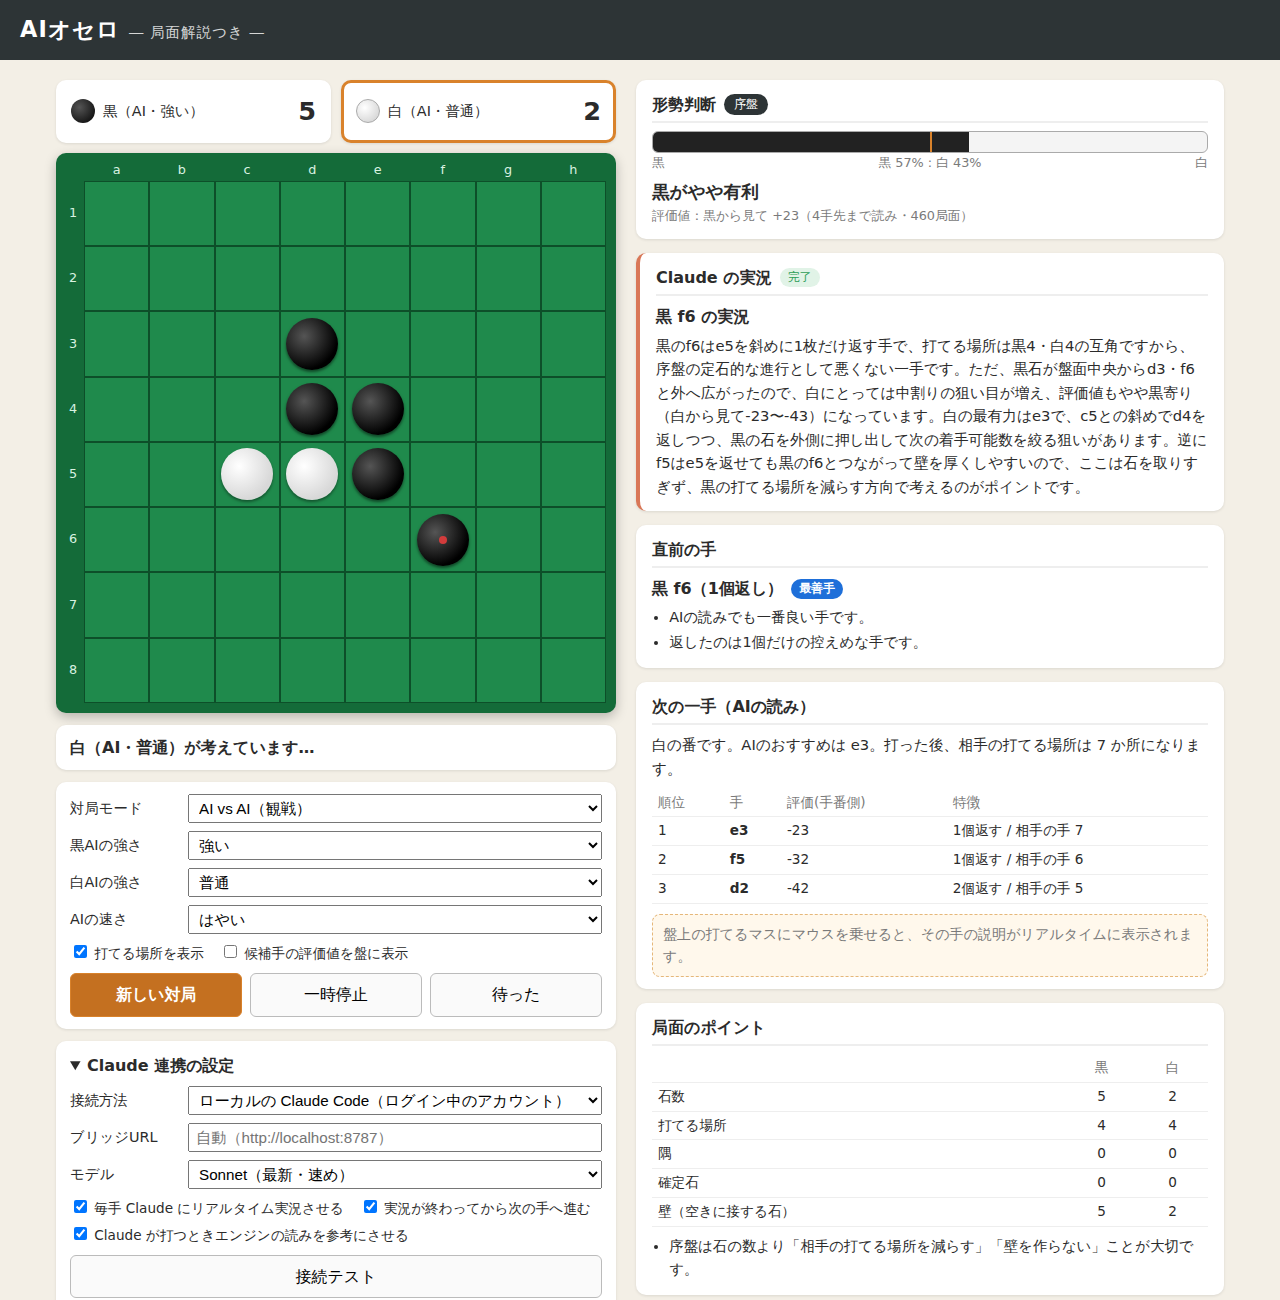
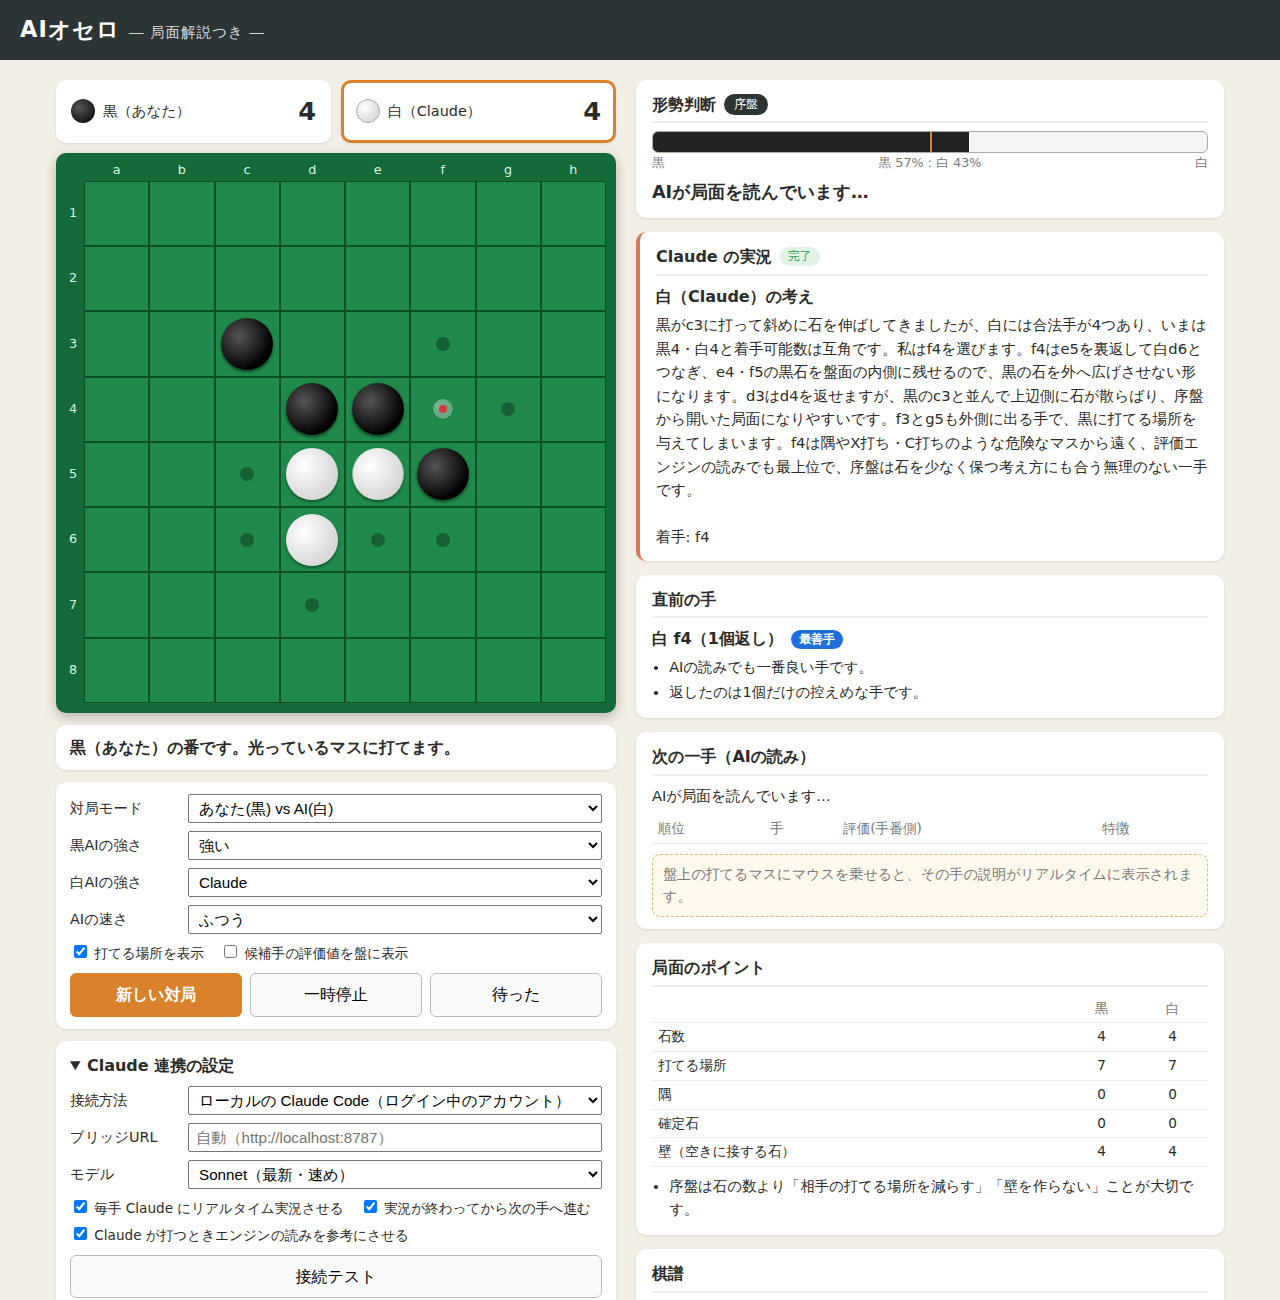
Remove paid API-key mode; use only the logged-in Claude Code account
- Drop the browser Claude API (API key) connection and its settings
- Bridge strips ANTHROPIC_API_KEY/ANTHROPIC_AUTH_TOKEN so the claude CLI
  always uses the logged-in subscription instead of pay-as-you-go billing
- Clear any previously saved API key from localStorage
- Update README

Claude-Session: https://claude.ai/code/session_01EnLhVGa8eGDwNp15rfBZZd

diff --git a/js/claude.js b/js/claude.js
@@ -1,18 +1,14 @@
 /*
  * claude.js — Claude との連携（着手・リアルタイム実況）
  *
- * 接続方法は2通り:
- *   local : ローカルの Claude Code（`claude` コマンド）を server/claude-bridge.mjs 経由で使う。
- *           ログイン中のアカウント（Pro/Max など）で動き、APIキーは不要。
- *   api   : Claude API をブラウザから直接呼ぶ（公式 SDK を CDN から読み込む）。
- *           Claude Console で発行した APIキーが必要。GitHub Pages などに置いても動く。
+ * ローカルの Claude Code（`claude` コマンド）を server/claude-bridge.mjs 経由で使う。
+ * ログイン中のアカウント（Pro/Max など）で動くので、APIキーも従量課金も不要。
  */
 (function (global) {
   'use strict';
 
   const O = global.Othello || (typeof require !== 'undefined' ? require('./game.js') : null);
   const STORAGE_KEY = 'othello-claude-settings';
-  const SDK_URL = 'https://esm.sh/@anthropic-ai/sdk@0.129.0';
 
   const MODELS = {
     local: [
@@ -21,18 +17,10 @@
       { value: 'sonnet', label: 'Sonnet（最新・速め）' },
       { value: 'haiku', label: 'Haiku（最速）' },
     ],
-    api: [
-      { value: 'claude-opus-5-5', label: 'Claude Opus 5.5' },
-      { value: 'claude-sonnet-5-5', label: 'Claude Sonnet 5.5（速め）' },
-      { value: 'claude-haiku-4-5', label: 'Claude Haiku 4.5（最速）' },
-    ],
   };
-  // サーバー側フォールバック（拒否時に別モデルで再実行）に対応したモデル
-  const FALLBACK_MODELS = new Set(['claude-opus-5-5', 'claude-sonnet-5-5']);
 
   const DEFAULTS = {
     provider: 'none',
-    apiKey: '',
     model: '',
     bridgeUrl: '',
     commentary: true,
@@ -41,13 +29,19 @@
   };
 
   let settings = load();
+  save({}); // 古い設定（APIキーなど）が残っていれば消しておく
 
   function load() {
+    let s;
     try {
-      return Object.assign({}, DEFAULTS, JSON.parse(localStorage.getItem(STORAGE_KEY) || '{}'));
+      s = Object.assign({}, DEFAULTS, JSON.parse(localStorage.getItem(STORAGE_KEY) || '{}'));
     } catch {
-      return Object.assign({}, DEFAULTS);
+      s = Object.assign({}, DEFAULTS);
     }
+    // 以前の版で保存された APIキーの設定は使わない
+    delete s.apiKey;
+    if (s.provider !== 'local') s.provider = 'none';
+    return s;
   }
 
   function save(patch) {
@@ -57,7 +51,7 @@
   }
 
   function getSettings() { return settings; }
-  function enabled() { return settings.provider === 'local' || settings.provider === 'api'; }
+  function enabled() { return settings.provider === 'local'; }
 
   function bridgeBase() {
     if (settings.bridgeUrl) return settings.bridgeUrl.replace(/\/+$/, '');
@@ -106,60 +100,9 @@
     return full;
   }
 
-  // ---------- Claude API（ブラウザから直接）----------
-  let sdkPromise = null;
-  function loadSdk() {
-    if (!sdkPromise) {
-      sdkPromise = import(SDK_URL).then(m => m.default).catch(e => {
-        sdkPromise = null;
-        throw new Error('Anthropic SDK を読み込めませんでした（ネット接続を確認してください）: ' + e.message);
-      });
-    }
-    return sdkPromise;
-  }
-
-  async function runApi({ system, prompt, onText, signal }) {
-    if (!settings.apiKey) throw new Error('APIキーが設定されていません。');
-    const Anthropic = await loadSdk();
-    const client = new Anthropic({ apiKey: settings.apiKey, dangerouslyAllowBrowser: true });
-    const model = settings.model || MODELS.api[0].value;
-    const params = {
-      model,
-      max_tokens: 8000,
-      system,
-      messages: [{ role: 'user', content: prompt }],
-    };
-    if (model !== 'claude-haiku-4-5') params.output_config = { effort: 'low' }; // 速く返してほしいので low
-    if (FALLBACK_MODELS.has(model)) {
-      params.betas = ['server-side-fallback-2026-07-01'];
-      params.fallbacks = 'default';
-    }
-    let full = '';
-    try {
-      const stream = client.beta.messages.stream(params, { signal });
-      stream.on('text', t => { full += t; onText(t, full); });
-      const msg = await stream.finalMessage();
-      if (msg.stop_reason === 'refusal') throw new Error('Claude がこのリクエストへの回答を控えました。');
-      return full;
-    } catch (e) {
-      if (e instanceof Anthropic.APIUserAbortError) {
-        const abort = new Error('aborted');
-        abort.name = 'AbortError';
-        throw abort;
-      }
-      if (e instanceof Anthropic.AuthenticationError) throw new Error('APIキーが正しくありません。');
-      if (e instanceof Anthropic.PermissionDeniedError) throw new Error('このAPIキーではこのモデルを使えません。');
-      if (e instanceof Anthropic.RateLimitError) throw new Error('利用制限に達しました。少し待ってから再度お試しください。');
-      if (e instanceof Anthropic.APIConnectionError) throw new Error('Claude API に接続できません。');
-      if (e instanceof Anthropic.APIError) throw new Error(`Claude API エラー (${e.status}): ${e.message}`);
-      throw e;
-    }
-  }
-
   /** Claude に問い合わせ、文章を少しずつ onText に渡す。完成した文章を返す。 */
   function run(opts) {
     if (settings.provider === 'local') return runLocal(opts);
-    if (settings.provider === 'api') return runApi(opts);
     return Promise.reject(new Error('Claude 連携がオフです。'));
   }
 

diff --git a/js/main.js b/js/main.js
@@ -28,11 +28,11 @@
     claudeCard: $('claude-card'), claudeState: $('claude-state'),
     claudeTitle: $('claude-title'), claudeText: $('claude-text'),
     claudeProvider: $('claude-provider'), claudeBridge: $('claude-bridge'),
-    claudeApiKey: $('claude-apikey'), claudeModel: $('claude-model'),
+    claudeModel: $('claude-model'),
     claudeCommentary: $('claude-commentary'), claudeWait: $('claude-wait'),
     claudeEngine: $('claude-engine'), claudeTest: $('claude-test'),
     claudeTestResult: $('claude-test-result'), claudeHelp: $('claude-help'),
-    rowBridge: $('row-bridge'), rowApiKey: $('row-apikey'), claudeSettings: $('claude-settings'),
+    rowBridge: $('row-bridge'), claudeSettings: $('claude-settings'),
   };
   const CL = window.OthelloClaude;
 
@@ -664,8 +664,6 @@
     none: 'Claude を使わず、内蔵AIだけで対局・解説します。',
     local: 'ターミナルで `node server/claude-bridge.mjs` を起動し、http://localhost:8787 を開いてください。' +
       'パソコンの `claude` コマンド（Claude Code）にログインしているアカウントで動くので、APIキーは不要です。',
-    api: 'Claude Console で発行した APIキーを使い、ブラウザから直接 Claude API を呼びます（従量課金）。' +
-      'キーはこのブラウザの中（localStorage）にだけ保存されます。公開するファイルにキーを書き込まないでください。',
   };
 
   function fillModelOptions() {
@@ -691,12 +689,10 @@
     const cfg = CL.getSettings();
     el.claudeProvider.value = cfg.provider;
     el.claudeBridge.value = cfg.bridgeUrl;
-    el.claudeApiKey.value = cfg.apiKey;
     el.claudeCommentary.checked = cfg.commentary;
     el.claudeWait.checked = cfg.waitCommentary;
     el.claudeEngine.checked = cfg.useEngine;
     el.rowBridge.hidden = cfg.provider !== 'local';
-    el.rowApiKey.hidden = cfg.provider !== 'api';
     el.claudeHelp.textContent = HELP[cfg.provider];
     fillModelOptions();
   }
@@ -711,12 +707,11 @@
   });
   el.claudeModel.addEventListener('change', () => CL.save({ model: el.claudeModel.value }));
   el.claudeBridge.addEventListener('change', () => CL.save({ bridgeUrl: el.claudeBridge.value.trim() }));
-  el.claudeApiKey.addEventListener('change', () => CL.save({ apiKey: el.claudeApiKey.value.trim() }));
   el.claudeCommentary.addEventListener('change', () => { CL.save({ commentary: el.claudeCommentary.checked }); resetClaudeCard(); });
   el.claudeWait.addEventListener('change', () => CL.save({ waitCommentary: el.claudeWait.checked }));
   el.claudeEngine.addEventListener('change', () => CL.save({ useEngine: el.claudeEngine.checked }));
   el.claudeTest.addEventListener('click', async () => {
-    CL.save({ apiKey: el.claudeApiKey.value.trim(), bridgeUrl: el.claudeBridge.value.trim() });
+    CL.save({ bridgeUrl: el.claudeBridge.value.trim() });
     el.claudeTestResult.textContent = '接続中…';
     el.claudeTest.disabled = true;
     try {

diff --git a/index.html b/index.html
@@ -88,16 +88,11 @@
           <select id="claude-provider">
             <option value="none">使わない</option>
             <option value="local">ローカルの Claude Code（ログイン中のアカウント）</option>
-            <option value="api">Claude API（APIキー）</option>
           </select>
         </div>
         <div class="control-row" id="row-bridge">
           <label for="claude-bridge">ブリッジURL</label>
           <input type="text" id="claude-bridge" placeholder="自動（http://localhost:8787）">
-        </div>
-        <div class="control-row" id="row-apikey">
-          <label for="claude-apikey">APIキー</label>
-          <input type="password" id="claude-apikey" placeholder="sk-ant-..." autocomplete="off">
         </div>
         <div class="control-row">
           <label for="claude-model">モデル</label>
